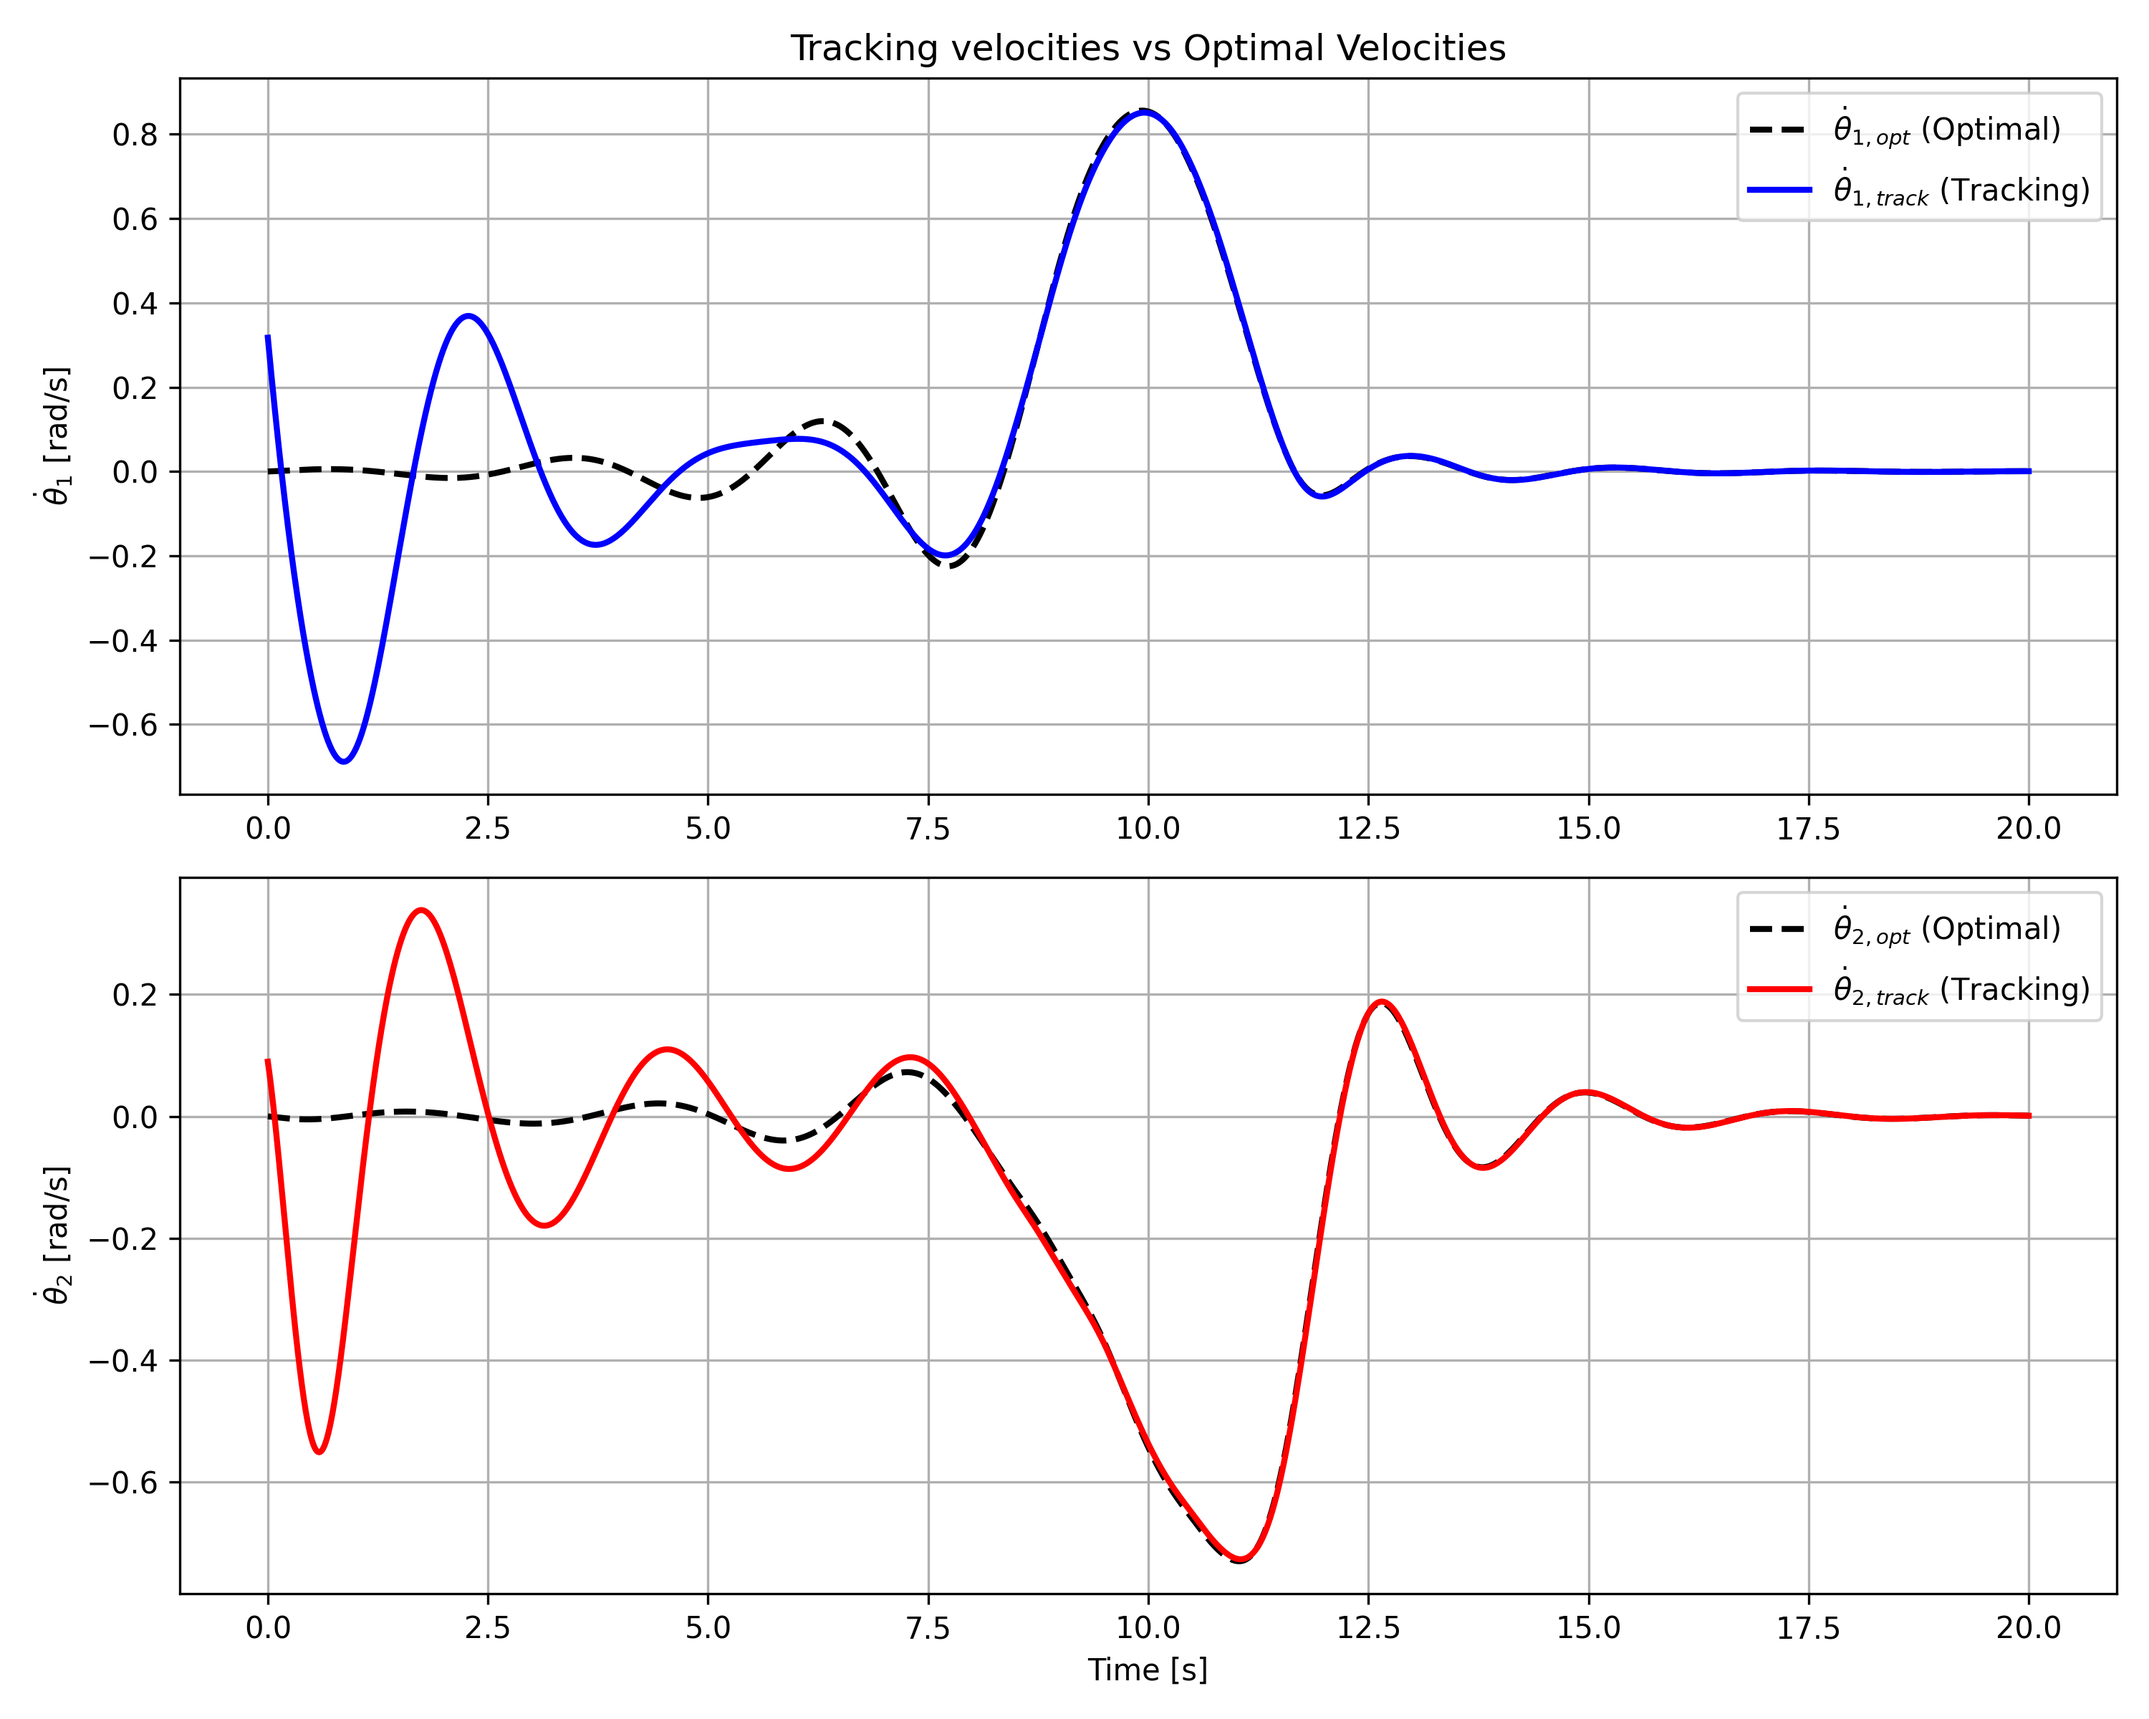
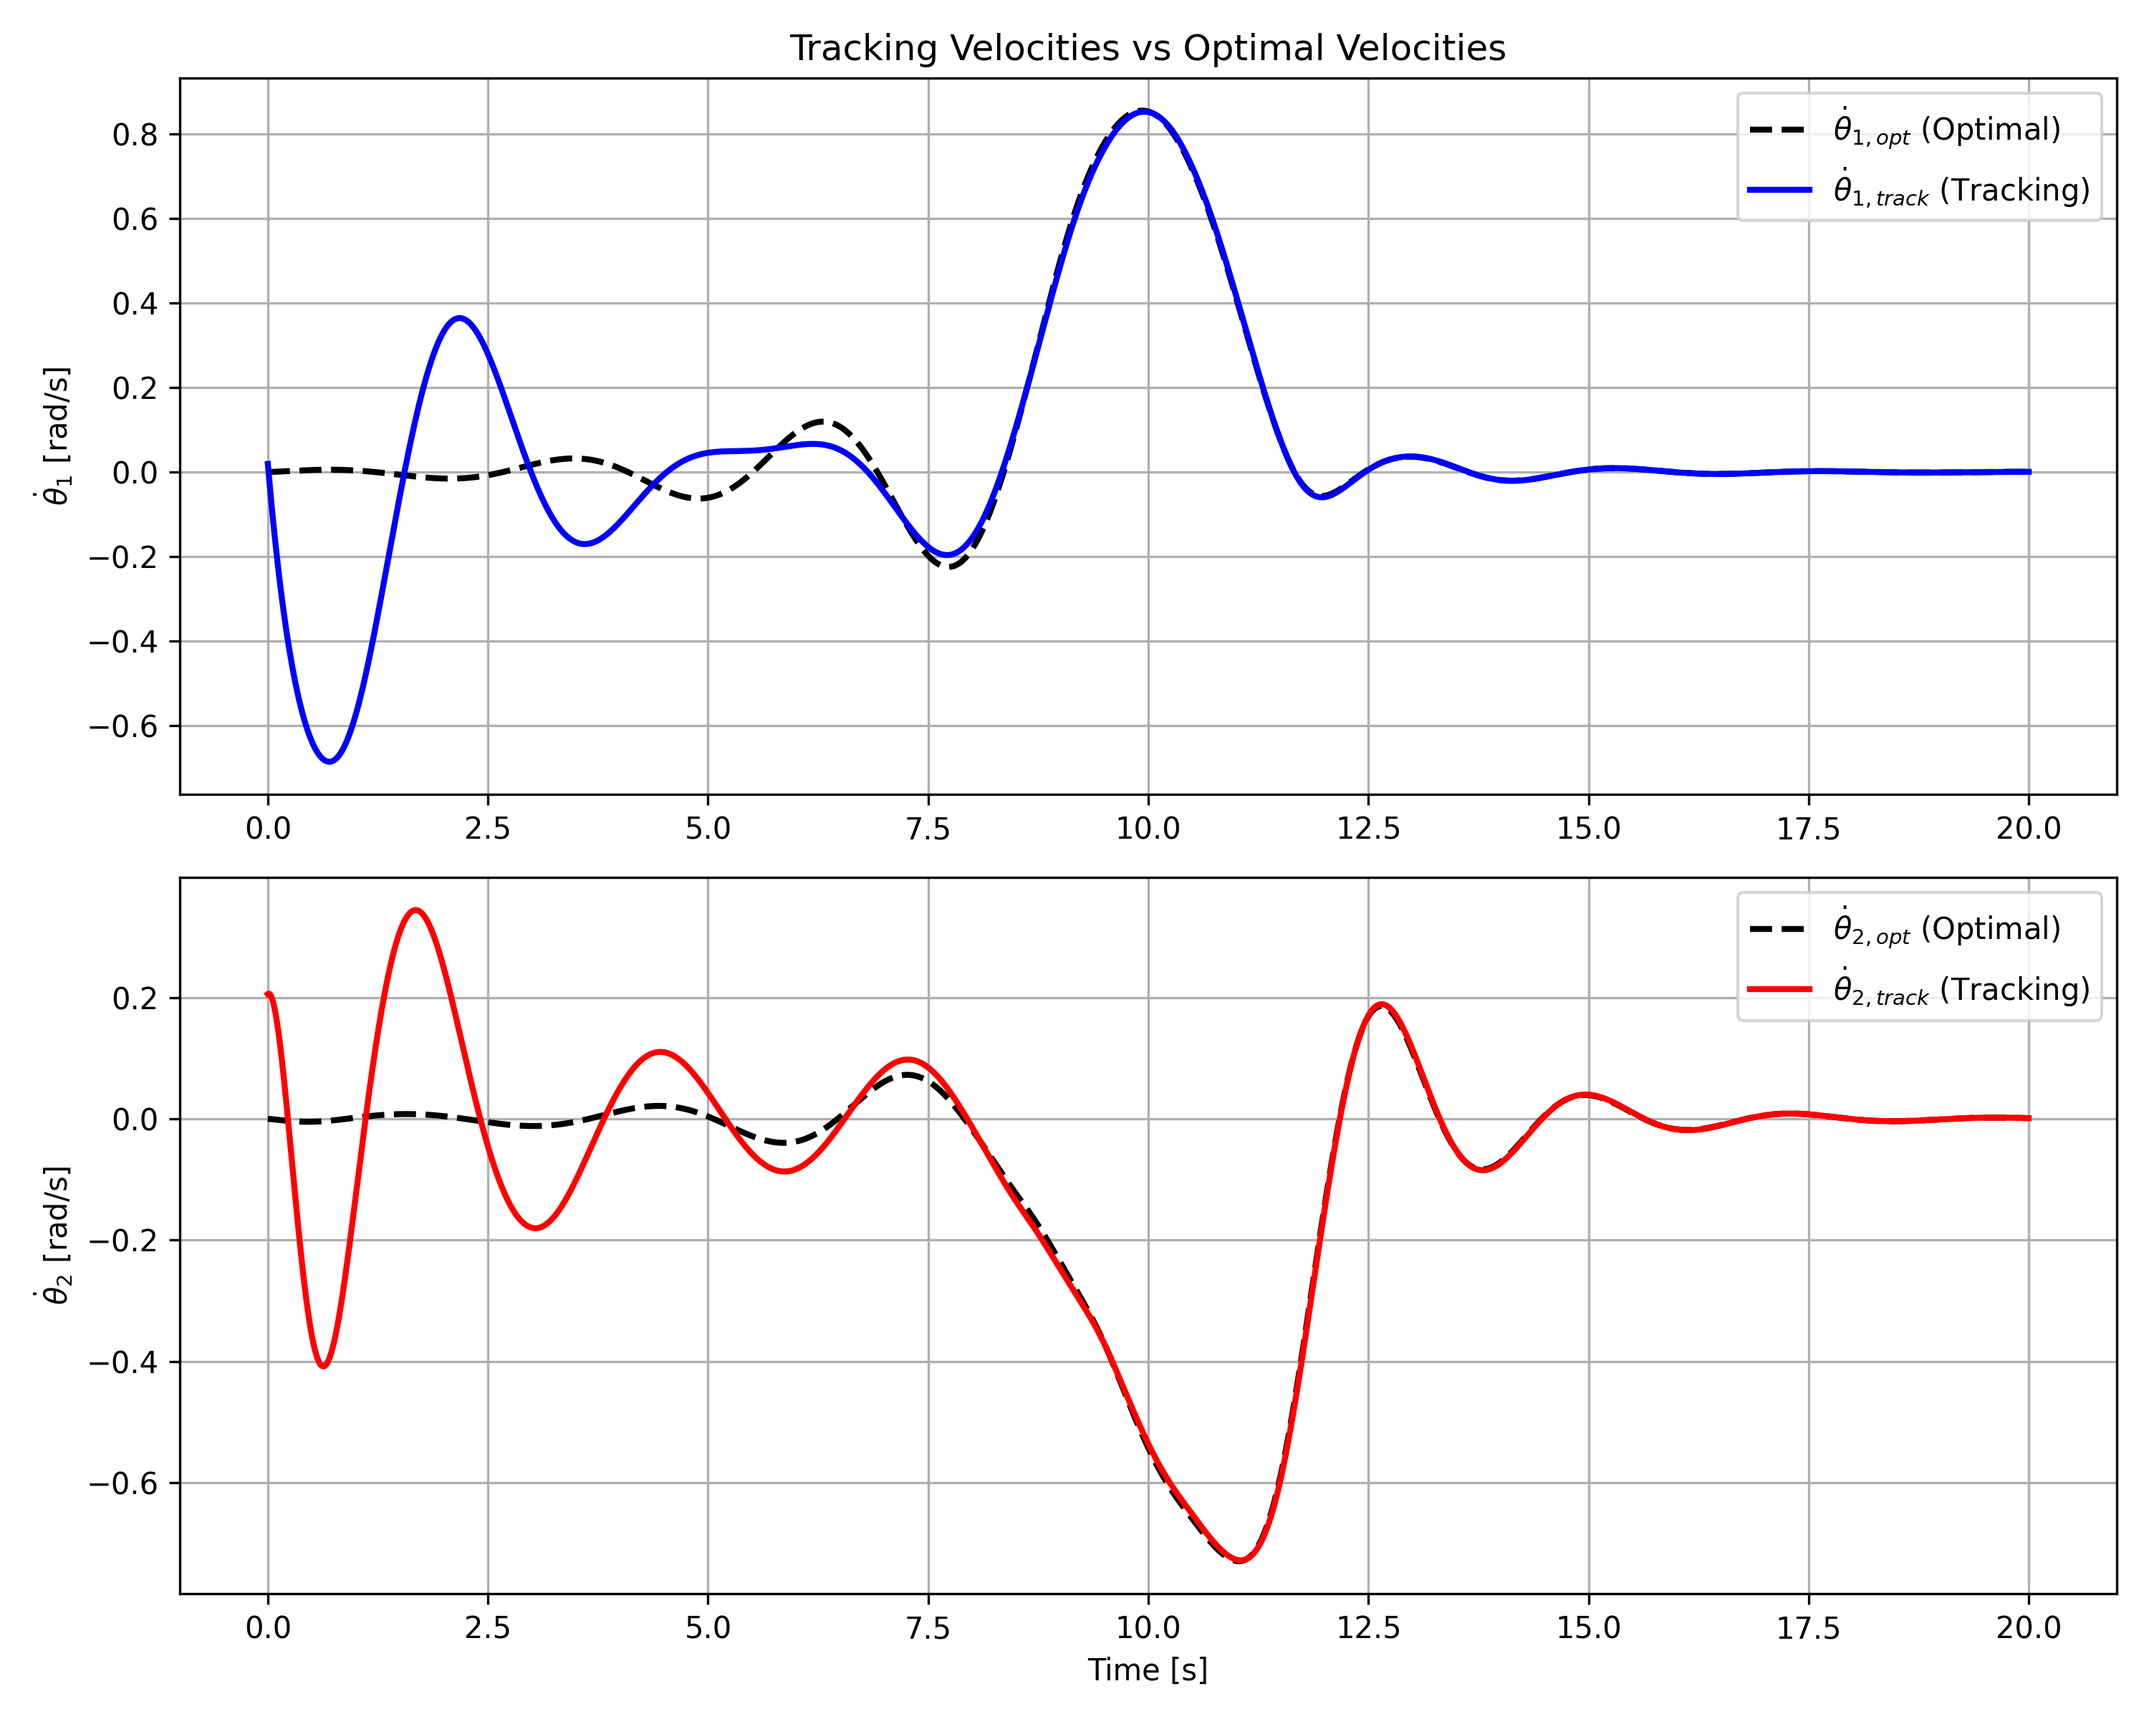
corretto main3

diff --git a/main_task3.py b/main_task3.py
@@ -25,21 +25,9 @@ else:
 ### --- IMPORTS --- ###
 import numpy as np
 import matplotlib.pyplot as plt
-import matplotlib.cm as cm
-import sympy as sp
-import math
-from mpl_toolkits import mplot3d # used for 3D plot
-import cvxpy as cvx
-import signal
 from scipy.optimize import minimize
-from matplotlib.animation import FuncAnimation
-import control 
-import random
-
 import dynamics as dyn
-import equilibrium as eq
 import reference_curve as ref_traj
-import cost as cst
 from ltv_solver_LQR import ltv_LQR
 
 # Defining final time in seconds
@@ -56,12 +44,11 @@ ns = dyn.ns
 ni = dyn.ni
 
 # Defining the optimal trajectory variables
-
 xx_opt_traj = np.load('optimal_traj_xx.npy')
 uu_opt_traj = np.load('optimal_traj_uu.npy')
 
 
-# Linearize dynamics along the trajectory
+# Linearizing dynamics along the trajectory
 AA_t = np.zeros((ns, ns, T_horizon))
 BBinch_t = np.zeros((ns, ni, T_horizon))
 
@@ -74,37 +61,34 @@ for tt in range(T_horizon):
     AA_t[:, :, tt] = A
     BBinch_t[:, :, tt] = B
 
-# Define LQR cost matrices
+# Defining LQR cost matrices
 QQreg = np.diag([100, 100, 1, 1])
 RRreg = np.diag([1])
 QQreg_final = np.diag([100, 100, 1, 1])
 SSreg = np.zeros((ni, ns))
-
 qq_reg = np.zeros((ns, T_horizon))
 rr_reg = np.zeros((ni, T_horizon))
 qq_Terminal = np.zeros(ns)
 
-# Solve the LQR problem
+# Solving the LQR problem to get KK gain matrix
 KK = ltv_LQR(AA_t, BBinch_t, QQreg, RRreg, SSreg, QQreg_final, T_horizon, np.zeros((ns)), qq_reg, rr_reg, qq_Terminal)[0]
 
-# Defining the input perturbation for each state
+# Defining the input perturbation, as random, for each state
 initial_perturbation = np.random.uniform(0, 0.5, 4) # Syntax: uniform(start, end, num_elem)
-#initial_perturbation = 0.25
 print(f"The initial perturbation on each state is:\n{initial_perturbation}")
-
 xx0_pert = xx_opt_traj[:,0].copy() + initial_perturbation
 
+# Initializing tracking trajectories and the state error
 xx_LQR_track = np.zeros((ns, T_horizon)) # defining x_t
 uu_LQR_track = np.zeros((ni, T_horizon)) # defining u_t
 xx_LQR_track[:, 0] = xx0_pert            # defning the initial condition as perturbed
-state_error = np.zeros((ns, T_horizon))
+state_error = np.zeros((ns, T_horizon))  # defining error on the state
 
+# Applying LQR tracking
 for tt in range(T_horizon-1):
 
     state_error[:,tt] = xx_LQR_track[:,tt] - xx_opt_traj[:,tt]
-
     uu_LQR_track[:,tt] = uu_opt_traj[:,tt] + KK[:,:,tt] @ state_error[:,tt]
-
     xx_LQR_track[:,tt+1] = dyn.dynamics_euler(xx_LQR_track[:, tt], uu_LQR_track[:, tt])[0]
 
 
@@ -113,11 +97,10 @@ xx_final = xx_LQR_track.copy()
 uu_final = uu_LQR_track.copy()
 
 
-# --- PLOT: Tracking Trajectory vs Optimal Trajectory ---
-# Requirement: "Tracking trajectory and optimal trajectory"
+# --- PLOT 1: Tracking Trajectory vs Optimal Trajectory (Reference curve) ---
+# Visualization of the tracking trajectory and the optimal one
 
 # Temporal axis definition
-# We assume that 'tf' and 'T_horizon' are defined 
 time_axis = np.linspace(0, tf, T_horizon)
 
 # Figure creation
@@ -130,7 +113,7 @@ plt.plot(time_axis, xx_opt_traj[0, :], 'k--', linewidth=2, label=r'$\theta_{1,op
 # Tracking traj. - Solid Colored Line
 plt.plot(time_axis, xx_final[0, :], 'b-', linewidth=2, label=r'$\theta_{1,track}$ (Tracking)')
 plt.ylabel(r'$\theta_1$ [rad]')
-plt.title('Tracking trajectory vs Optimal Trajectory')
+plt.title('Tracking Trajectory vs Optimal Trajectory')
 plt.grid(True)
 plt.legend(loc='best')
 
@@ -170,18 +153,18 @@ plt.figure(figsize=(10, 8))
 
 # --- Subplot 1: Third State (x3 - Velocity Theta 1) ---
 plt.subplot(2, 1, 1)
-# Optimal traj. (generally zero)
+# Optimal traj. 
 plt.plot(time_axis, xx_opt_traj[2, :], 'k--', linewidth=2, label=r'$\dot{\theta}_{1,opt}$ (Optimal)')
 # Tracking traj.
 plt.plot(time_axis, xx_final[2, :], 'b-', linewidth=2, label=r'$\dot{\theta}_{1,track}$ (Tracking)')
 plt.ylabel(r'$\dot{\theta}_1$ [rad/s]')
-plt.title('Tracking velocities vs Optimal Velocities')
+plt.title('Tracking Velocities vs Optimal Velocities')
 plt.grid(True)
 plt.legend(loc='best')
 
 # --- Subplot 2: Fourth State (x4 - Velocity Theta 2) ---
 plt.subplot(2, 1, 2)
-# Optimal traj. (generally zero)
+# Optimal traj. 
 plt.plot(time_axis, xx_opt_traj[3, :], 'k--', linewidth=2, label=r'$\dot{\theta}_{2,opt}$ (Optimal)')
 # Tracking traj.
 plt.plot(time_axis, xx_final[3, :], 'r-', linewidth=2, label=r'$\dot{\theta}_{2,track}$ (Tracking)')
@@ -195,16 +178,17 @@ plt.savefig(os.path.join(output_folder,'Task3_Velocities.png'), dpi=300) # Save 
 plt.show()
 
 
+# --- PLOT 2: Tracking Error for each state and for the input ---
+# Visualization of the tracking errors
 
-# Plot tracking error for each state
-
-state_labels = ["theta1", "theta2", r"$\dot{\theta}_1$", r"$\dot{\theta}_2$"]
+# Plot tracking errors for state variables
+state_labels = [r"${\theta}_1$", r"${\theta}_2$", r"$\dot{\theta}_1$", r"$\dot{\theta}_2$"]
 
 for i, label in enumerate(state_labels):
     plt.figure(figsize=(8, 5))
     plt.plot(time_axis, np.abs(xx_final[i, :] - xx_opt_traj[i, :]), label=f"Tracking Error in {label}")
     plt.title(f"Tracking Error in {label}")
-    plt.xlabel("time [s]")
+    plt.xlabel("Time [s]")
     plt.ylabel(f"Error in {label}")
     plt.grid()
     plt.legend()
@@ -213,12 +197,12 @@ for i, label in enumerate(state_labels):
     print(plot_name)
     plt.show()
 
-# Plot tracking error for input
+# Plot tracking error for input variable
 input_tracking_error = np.abs(uu_final - uu_opt_traj)
 plt.figure(figsize=(8, 5))
 plt.plot(time_axis, input_tracking_error[0, :], label="Tracking Error in Input (u)")
 plt.title("Tracking Error in Input (u)")
-plt.xlabel("time [s]")
+plt.xlabel("Time [s]")
 plt.ylabel("Error in u")
 plt.grid()
 plt.legend()
